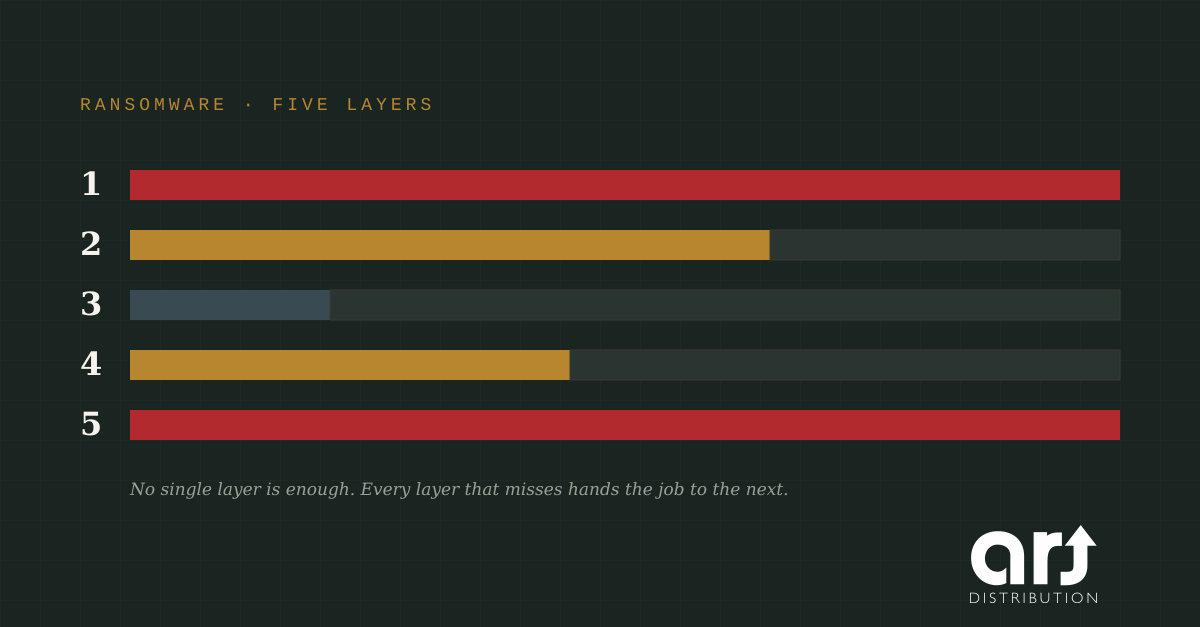
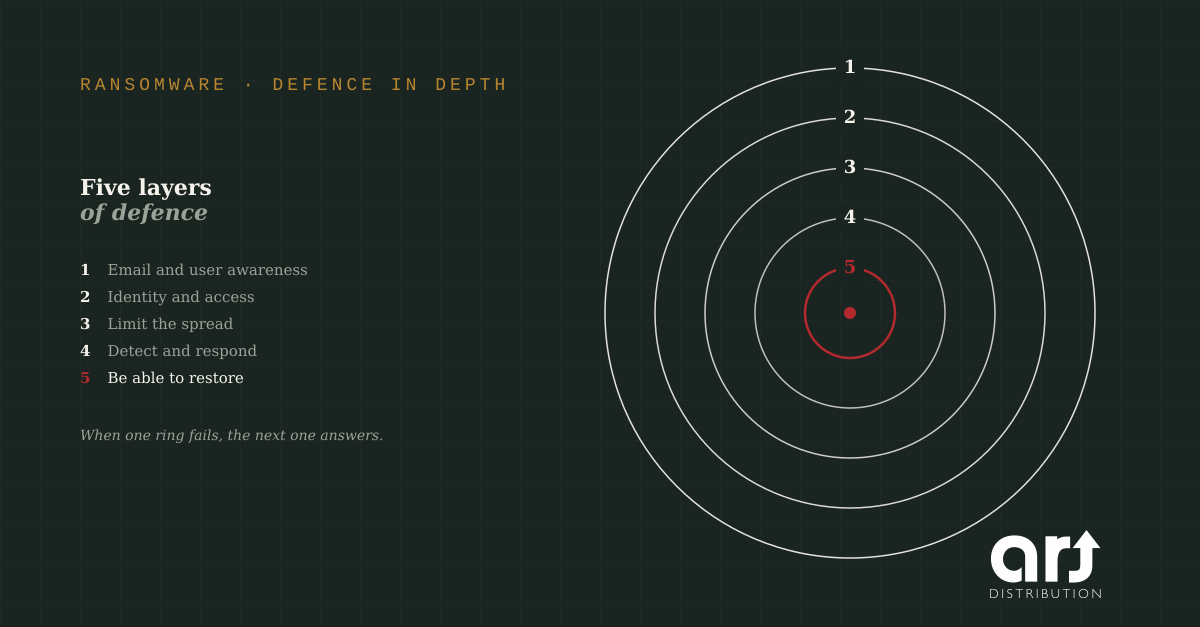
Rework ransomware hero: defence-in-depth rings instead of abstract bars
Previous version used bars of varying width to signal ARJ's coverage
per layer, but the meaning was not self-evident to a first-time viewer.
Replaced with five concentric rings (defence in depth) plus a labelled
list on the left, so what the image shows is unambiguous.

Claude-Session: https://claude.ai/code/session_019m8XQ4GMQ1UkdTUjpKqFrn

diff --git a/ransomware-hub/README.md b/ransomware-hub/README.md
@@ -8,6 +8,12 @@ For the blog posts "Ransomware isn't one problem. It's five." (EN) and "Ransomwa
 | `ransomware-hero-en.png` | 1200×627 | Featured image, EN blog post `/en/arjblog/ransomware-isnt-one-problem-its-five` |
 | `*.svg` | source | Original vector files, 1200×627 viewBox |
 
-Design: visual representation of the five-layer ransomware framework. Red bars = covered, gold bars = partial coverage, slate bar = outside ARJ's portfolio. Bar widths signal coverage extent. Matches article hero palette (ink #1a2420, rust #b2292e, gold #b8862f, slate #3a4a52).
+## Design
 
-Created 21 Nov 2026 to pair with the published Ransomware Hub pages and partner articles on arjdistribution.se.
+Defence-in-depth visual: five concentric rings represent the five layers of the ransomware framework. Layer 1 (outermost) is the perimeter — email and user awareness, the first thing an attack meets. Layer 5 (innermost, red) is backup — the last line of defence, highlighted because when everything else fails it's the only thing left. The dot at the centre is what's being defended.
+
+The labelled list on the left names each layer; the ring stack on the right shows how they relate. The metaphor: an attacker must breach every ring to reach what's inside, and when one ring fails the next one answers.
+
+Matches article hero palette (ink #1a2420, rust #b2292e, gold #b8862f). Official ARJ logo (white variant) bottom right.
+
+Replaces earlier version with abstract bars whose meaning was not self-evident.
